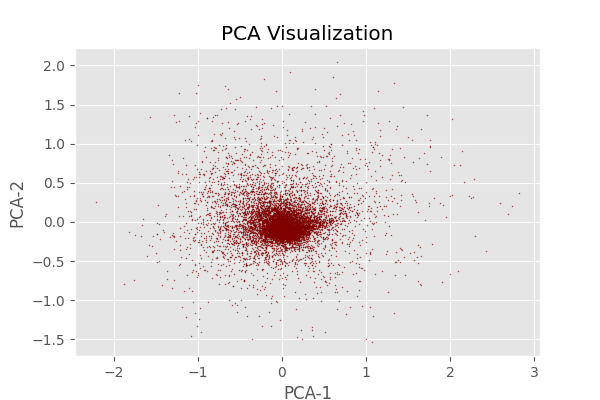
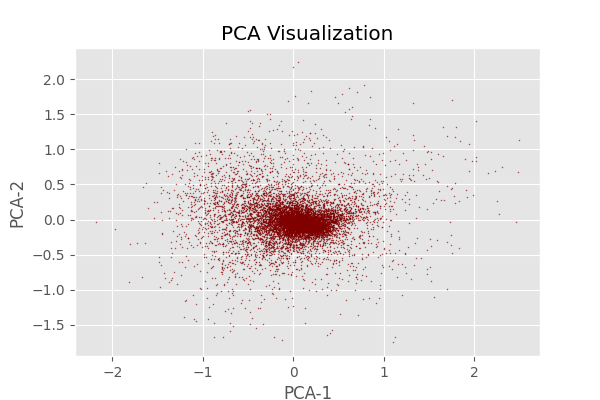
Outputs clustered words by label

diff --git a/src/pages/index.js b/src/pages/index.js
@@ -15,6 +15,7 @@ import RefreshIcon from "@mui/icons-material/Refresh";
 export default function Home() {
     const [getMessage, setMessage] = useState("Loading...");
     const [getData, setData] = useState("Loading...");
+    const [getSentiment, setSentiment] = useState("Unsure");
 
     let ResponseInfo = () => {
         if (getData === "Loading...") {
@@ -115,9 +116,11 @@ export default function Home() {
                     alignItems: "center",
                 }}>
                 <Button
+                    variant="outlined"
                     sx={{
-                        width: "25%",
+                        width: "40%",
                         m: 3,
+                        marginTop: 4
                     }}
                     onClick={onGetStatus}>
                     Get Status
@@ -133,13 +136,49 @@ export default function Home() {
                 <Card
                     sx={{
                         backgroundColor: "#1E90FF",
-                        width: 300
+                        width: "75%",
+                        p: 1
                     }}>
                     <CardContent>
                         <Typography variant="subheader">
                             Database Status
                         </Typography>
                         <ResponseInfo />
+                    </CardContent>
+                </Card>
+            </Box>
+            <Box
+                sx={{
+                    display: "flex",
+                    justifyContent: "center",
+                    alignItems: "center",
+                    m: 3,
+                }}>
+                <Card
+                    sx={{
+                        backgroundColor: "#1E90FF",
+                        width: "75%",
+                        p: 1
+                    }}>
+                    <CardContent>
+                        <Grid sx={{display: "flex", direction: "column"}}>
+                            <Grid item xs={6} sx={{m: 1}}>
+                                <Typography variant="subheader">
+                                    Current Market Sentiment
+                                </Typography>
+                                <Typography color="secondary.light">
+                                    {getSentiment}
+                                </Typography>
+                            </Grid>
+                            <Grid item xs={6} sx={{m: 1}}>
+                                <Typography variant="subheader">
+                                    Twitter Bot Status
+                                </Typography>
+                                <Typography color="secondary.light">
+                                    {getSentiment}
+                                </Typography>
+                            </Grid>
+                        </Grid>
                     </CardContent>
                 </Card>
             </Box>

diff --git a/src/styles/theme.js b/src/styles/theme.js
@@ -30,7 +30,9 @@ const theme = createTheme({
             fontSize: "32px",
         },
         subheader: {
-            fontSize: "28px",
+            fontSize: "18px",
+            fontWeight: "bold",
+            letterSpacing: 2
         },
     },
 });

diff --git a/process_data/process.py b/process_data/process.py
@@ -1,143 +1,119 @@
-# ---------------------------------------------
-#
-# Process.py
-# - Converts the tweets.json file into usable vector values
-# - The general process is:
-# - Set Up -> Import Data -> Pre Process Data -> Embed Words
-#
-# Code sourced from https://towardsdatascience.com/word2vec-explained-49c52b4ccb71
-#
-# ---------------------------------------------
-
-
 import json
-import pandas as pd
-import nltk
 import string
+import numpy as np
+import pandas as pd
+
 import matplotlib.pyplot as plt
+import matplotlib.patches as mpatches
 
+from nltk.tokenize import word_tokenize
 from nltk.corpus import stopwords
-from nltk import word_tokenize
-from gensim.models import Word2Vec as w2v
+
+from sklearn.feature_extraction.text import CountVectorizer
+from sklearn.cluster import KMeans
+
+from gensim.models import Word2Vec
+
 from sklearn.decomposition import PCA
-
-# ---------------------------------------------
-#                  SET UP
-# ---------------------------------------------
-
-# constants
-PATH = 'C:/Users/Thomas/Desktop/Projects/FinAI/finai/process_data/data/tweets.json'
-sw = stopwords.words('english')
-plt.style.use('ggplot')
 
 # ---------------------------------------------
 #               IMPORT DATA
 # ---------------------------------------------
 
-lines = []
+# constants
+PATH = 'C:/Users/Thomas/Desktop/Projects/FinAI/finai/process_data/data/tweets.json'
+sw = stopwords.words('english')
+
 with open(PATH, encoding='utf-8') as f:
     data = json.load(f)
-    for item in data:
-        lines.append(item['text'])
 
+    # extract tweets and labels
+    tweets = [d['text'] for d in data]
+    labels = [d['label'] for d in data]
 
-# ---------------------------------------------
-#            PRE-PROCESS DATA
-# ---------------------------------------------
+    print("Tweets: " + str(len(tweets)))
+    print("Labels: " + str(len(labels)))
 
-# remove new lines
-lines = [line.rstrip('\n') for line in lines]
+    # remove stop words from tweets
+    vectorizer = CountVectorizer(stop_words=sw)
+    X = vectorizer.fit_transform(tweets)
 
-# make all characters lower
-lines = [line.lower() for line in lines]
+    print("Vectorized tweets.")
 
-# remove punctuations from each line
-lines = [line.translate(str.maketrans('', '', string.punctuation))
-         for line in lines]
+    # apply k-means clustering
+    k = len(set(labels)) # set number of clusters to the number of unique labels
+    kmeans = KMeans(n_clusters=k, random_state=0).fit(X)
 
-# tokenize
-lines = [word_tokenize(line) for line in lines]
+    print("Applied k means.")
 
-def remove_stopwords(lines, sw=sw):
-    '''
-    The purpose of this function is to remove stopwords from a given array of 
-    lines.
+    # get the labels for each tweet
+    tweet_labels = kmeans.labels_
+    print("Tweet labels: " + str(len(tweet_labels)))
 
-    params:
-        lines (Array / List) : The list of lines you want to remove the stopwords from
-        sw (Set) : The set of stopwords you want to remove
-
-    example:
-        lines = remove_stopwords(lines = lines, sw = sw)
-    '''
-
-    res = []
-    for line in lines:
-        original = line
-        line = [w for w in line if w not in sw]
-        if len(line) < 1:
-            line = original
-        res.append(line)
-    return res
-
-
-filtered_lines = remove_stopwords(lines=lines, sw=sw)
+    print("Processed labels.")
 
 # ---------------------------------------------
-#                EMBED WORDS
+#            PRE-PROCESS AND EMBED
 # ---------------------------------------------
 
-w = w2v(
-    lines,
-    min_count=3,  
-    sg = 1,       
-    window=7      
-)       
+# remove punctuations from each tweet
+# tweets = [t.translate(str.maketrans('', '', string.punctuation)) for t in tweets]
 
-print(w.wv.most_similar('buy'))
+tokenized_tweets = [word_tokenize(tweet.lower()) for tweet in set(tweets)]
+w2v_model = Word2Vec(tokenized_tweets, min_count=3, sg=1, window=7)
 
-emb_df = (
-    pd.DataFrame(
-        [w.wv.get_vector(str(n)) for n in w.wv.key_to_index],
-        index = w.wv.key_to_index
-    )
-)
-print(emb_df.shape)
-emb_df.head()
+print("Applied World2Vec model.")
 
-# ---------------------------------------------
-#             GENERATE PCA IMG
-# ---------------------------------------------
+valid_tweet_indices = [i for i, tweet in enumerate(tokenized_tweets) if any(word in w2v_model.wv.key_to_index for word in tweet)]
+print("Created valid tweet indices from tokenized tweets.")
 
+valid_tweet_indices = [i for i in valid_tweet_indices if i < len(w2v_model.wv.vectors)]
+print("Removed tweet indices less than the length of W2V vectors.")
+
+valid_word_vectors = w2v_model.wv.vectors[valid_tweet_indices]
+print("Created valid word vectors.")
+
+valid_tweets = [tweets[i] for i in valid_tweet_indices]
+print("Created valid tweets.")
+
+
+
+emb_df = pd.DataFrame(valid_word_vectors, index=valid_tweets)
+
+print("Word Vectors: " + str(len(valid_word_vectors)))
+
+# use PCA to reduce dimensionality of word vectors to 2
 pca = PCA(n_components=2, random_state=7)
-pca_mdl = pca.fit_transform(emb_df)
+pca_word_vectors = pca.fit_transform(valid_word_vectors)
 
-emb_df_PCA = (
-    pd.DataFrame(
-        pca_mdl,
-        columns=['x','y'],
-        index = emb_df.index
-    )
-)
+print("PCA WV: " + str(len(pca_word_vectors)))
 
-plt.clf()
-fig = plt.figure(figsize=(6,4))
+# create DataFrame with word vectors and their corresponding labels
+words_df = pd.DataFrame(pca_word_vectors, index=[valid_tweets[i] for i in range(len(valid_tweet_indices))], columns=['x', 'y'])
+words_df['label'] = tweet_labels[valid_tweet_indices]
 
-plt.scatter(
-    x = emb_df_PCA['x'],
-    y = emb_df_PCA['y'],
-    s = 0.4,
-    color = 'maroon',
-    alpha = 0.5
-)
+# get the unique labels
+unique_labels = set(tweet_labels)
 
+# create dictionary of color codes for each label
+colors = plt.cm.Spectral(np.linspace(0, 1, len(unique_labels)))
+color_dict = {label: color for label, color in zip(unique_labels, colors)}
+
+# create scatter plot
+fig, ax = plt.subplots(figsize=(12,8))
+for label in unique_labels:
+    label_words_df = words_df[words_df['label'] == label]
+    plt.scatter(label_words_df['x'], label_words_df['y'], color=color_dict[label], s=20, alpha=0.5)
+
+# Create key table
+ax.set_title('Word Clusters by Label')
+ax.set_xlabel('PCA-1')
+ax.set_ylabel('PCA-2')
+handles = [mpatches.Patch(color=color_dict[label], label=label) for label in unique_labels]
+plt.legend(handles=handles, title="Labels", bbox_to_anchor=(1.05, 1), loc='upper left')
+
+
+plt.title('Word Clusters by Label')
 plt.xlabel('PCA-1')
 plt.ylabel('PCA-2')
-plt.title('PCA Visualization')
-plt.plot()
-
-# save the plot to a file
-plt.savefig('pca_plot.png')
-
-# show the plot
 plt.show()
